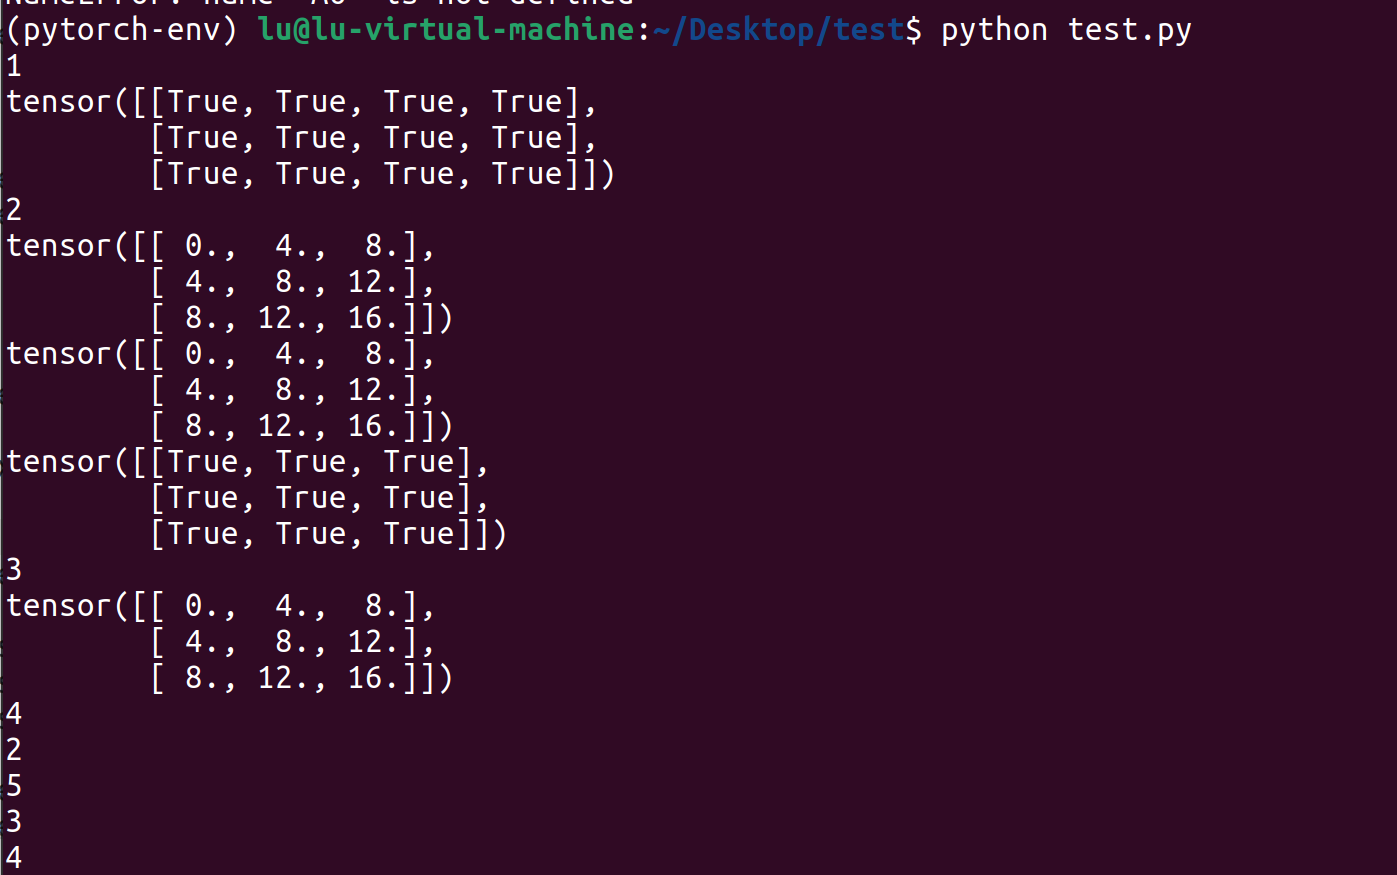
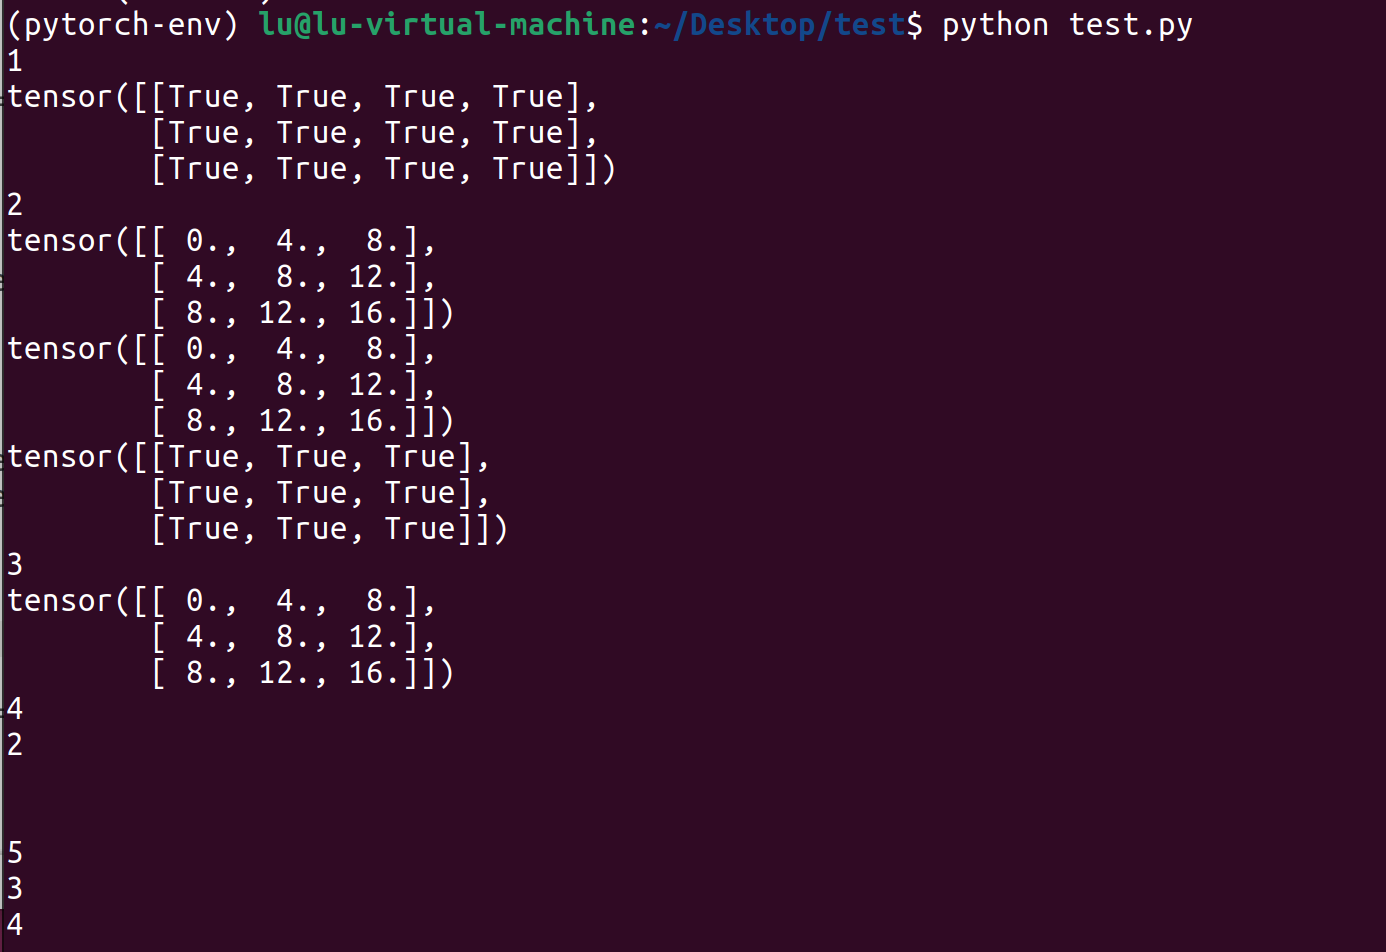
今日pytorch学习日志提交

Changed region(s): [[0.0, 0.0, 0.8687, 1.0]]

diff --git a/week1/code/test4.py b/week1/code/test4.py
@@ -1,0 +1,171 @@
+import numpy as np
+import matplotlib.pyplot as plt
+from d2l import torch as d2l
+
+def f(x):
+    """
+    定义二次函数 f(x) = 3x² - 4x
+    这是一个凸函数，用于演示导数和切线的概念
+    """
+    return 3 * x ** 2 - 4 * x
+
+def numerical_lim(f, x, h):
+    """
+    使用数值方法计算函数在给定点的导数
+    采用前向差分公式：f'(x) ≈ [f(x+h) - f(x)] / h
+    参数:
+        f: 目标函数
+        x: 计算导数的点
+        h: 步长（越小越精确，但数值误差可能增大）
+    返回:
+        数值近似的导数值
+    """
+    return (f(x + h) - f(x)) / h
+
+# 数值导数计算演示
+# 通过不同步长展示数值导数的收敛性
+h = 0.1  # 初始步长
+print("数值导数计算 (在 x=1 处):")
+print("步长越小，数值导数越接近理论值 2")
+for i in range(5):
+    # 计算在x=1处的数值导数
+    derivative = numerical_lim(f, 1, h)
+    print(f'h={h:.5f}, numerical limit={derivative:.5f}')
+    h *= 0.1  # 每次迭代将步长缩小10倍
+
+# 理论验证：
+# f(x) = 3x² - 4x
+# f'(x) = 6x - 4
+# 在x=1处：f'(1) = 6*1 - 4 = 2
+print(f"理论导数在 x=1 处: 2.00000")
+
+def use_svg_display():  #@save
+    """
+    使用SVG格式显示绘图（在Jupyter Notebook中）
+    SVG格式提供矢量图形，缩放不失真
+    在普通Python脚本中此函数为空实现
+    """
+    pass
+
+def set_figsize(figsize=(3.5, 2.5)):  #@save
+    """
+    设置matplotlib图表的大小
+    参数:
+        figsize: 元组 (宽度, 高度)，单位为英寸
+    """
+    plt.rcParams['figure.figsize'] = figsize
+
+def set_axes(axes, xlabel, ylabel, xlim, ylim, xscale, yscale, legend):
+    """
+    配置matplotlib坐标轴的各项属性
+    参数:
+        axes: matplotlib坐标轴对象
+        xlabel, ylabel: x轴和y轴的标签文本
+        xlim, ylim: x轴和y轴的显示范围 (min, max)
+        xscale, yscale: 坐标轴尺度 ('linear'线性, 'log'对数)
+        legend: 图例文本列表
+    """
+    # 设置坐标轴标签
+    axes.set_xlabel(xlabel)
+    axes.set_ylabel(ylabel)
+    
+    # 设置坐标轴尺度
+    axes.set_xscale(xscale)
+    axes.set_yscale(yscale)
+    
+    # 设置坐标轴范围
+    axes.set_xlim(xlim)
+    axes.set_ylim(ylim)
+    
+    # 添加图例（如果提供）
+    if legend:
+        axes.legend(legend)
+    
+    # 添加网格线，提高可读性
+    axes.grid()
+
+def plot(X, Y=None, xlabel=None, ylabel=None, legend=None, xlim=None,
+         ylim=None, xscale='linear', yscale='linear',
+         fmts=('-', 'm--', 'g-.', 'r:'), figsize=(3.5, 2.5), axes=None):
+    """
+    通用绘图函数，用于绘制单条或多条数据曲线
+    参数:
+        X: x轴数据，可以是数值数组或列表
+        Y: y轴数据，如果为None则绘制X自身
+        xlabel, ylabel: 坐标轴标签
+        legend: 图例说明列表
+        xlim, ylim: 坐标轴范围限制
+        xscale, yscale: 坐标轴尺度类型
+        fmts: 线条格式列表，控制线条样式和颜色
+        figsize: 图形尺寸
+        axes: 可选的坐标轴对象
+    """
+    # 初始化图例列表
+    if legend is None:
+        legend = []
+
+    # 设置图形尺寸
+    set_figsize(figsize)
+    
+    # 获取或创建坐标轴对象
+    axes = axes if axes else plt.gca()
+
+    def has_one_axis(X):
+        """
+        判断输入数据是否是单维数据
+        返回True如果:
+          - X是1维numpy数组
+          - X是标量列表（非嵌套列表）
+        """
+        return (hasattr(X, "ndim") and X.ndim == 1 or 
+                isinstance(X, list) and not hasattr(X[0], "__len__"))
+
+    # 数据预处理：统一数据格式
+    # 确保X是列表形式，每个元素代表一条曲线的x数据
+    if has_one_axis(X):
+        X = [X]
+    
+    # 处理Y为None的情况（绘制X自身）
+    if Y is None:
+        X, Y = [[]] * len(X), X
+    # 确保Y是列表形式
+    elif has_one_axis(Y):
+        Y = [Y]
+    
+    # 确保X和Y列表长度匹配
+    if len(X) != len(Y):
+        X = X * len(Y)
+    
+    # 清空当前坐标轴，准备绘制新图形
+    axes.cla()
+    
+    # 遍历所有数据对，绘制每条曲线
+    for x, y, fmt in zip(X, Y, fmts):
+        if len(x):
+            # 绘制x-y数据对
+            axes.plot(x, y, fmt)
+        else:
+            # 仅绘制y数据（x为索引）
+            axes.plot(y, fmt)
+    
+    # 配置坐标轴属性
+    set_axes(axes, xlabel, ylabel, xlim, ylim, xscale, yscale, legend)
+
+# 主程序：绘制函数和切线
+# 生成x轴数据点，从0到3，步长0.1
+x = np.arange(0, 3, 0.1)
+
+# 绘制函数曲线和在x=1处的切线
+# 函数：f(x) = 3x² - 4x
+# 在x=1处的切线：y = f'(1)(x-1) + f(1) = 2(x-1) + (-1) = 2x - 3
+plot(x, 
+     [f(x), 2 * x - 3],  # 绘制函数曲线和切线
+     'x',                 # x轴标签
+     'f(x)',              # y轴标签
+     legend=['f(x)', 'Tangent line (x=1)'],  # 图例说明
+     xlim=[0, 3],         # x轴显示范围
+     ylim=[-2, 10]        # y轴显示范围
+)
+
+# 显示图形（在Python脚本中必需）
+plt.show()

diff --git a/week1/code/practice4.py b/week1/code/practice4.py
@@ -1,0 +1,67 @@
+import numpy as np
+import matplotlib.pyplot as plt
+from d2l import torch as d2l
+
+def f(x):
+    return x * x * x - 1 / x
+
+def numerical_lim(f, x, h):
+    return (f(x + h) - f(x)) / h
+
+h = 0.1
+for i in range(5):
+    print(f'h={h:.5f}, numerical limit={numerical_lim(f, 1, h):.5f}')
+    h *= 0.1
+
+def use_svg_display():
+    pass
+
+def set_figsize(figsize=(3.5, 2.5)):
+    plt.rcParams['figure.figsize'] = figsize
+
+def set_axes(axes, xlabel, ylabel, xlim, ylim, xscale, yscale, legend):
+    axes.set_xlabel(xlabel)
+    axes.set_ylabel(ylabel)
+    axes.set_xscale(xscale)
+    axes.set_yscale(yscale)
+    axes.set_xlim(xlim)
+    axes.set_ylim(ylim)
+    if legend:
+        axes.legend(legend)
+    axes.grid()
+
+def plot(X, Y=None, xlabel=None, ylabel=None, legend=None, xlim=None,
+         ylim=None, xscale='linear', yscale='linear',
+         fmts=('-', 'm--', 'g-.', 'r:'), figsize=(3.5, 2.5), axes=None):
+    if legend is None:
+        legend = []
+
+    set_figsize(figsize)
+    axes = axes if axes else plt.gca()
+
+    def has_one_axis(X):
+        return (hasattr(X, "ndim") and X.ndim == 1 or isinstance(X, list)
+                and not hasattr(X[0], "__len__"))
+
+    if has_one_axis(X):
+        X = [X]
+    if Y is None:
+        X, Y = [[]] * len(X), X
+    elif has_one_axis(Y):
+        Y = [Y]
+    if len(X) != len(Y):
+        X = X * len(Y)
+    axes.cla()
+    for x, y, fmt in zip(X, Y, fmts):
+        if len(x):
+            axes.plot(x, y, fmt)
+        else:
+            axes.plot(y, fmt)
+    set_axes(axes, xlabel, ylabel, xlim, ylim, xscale, yscale, legend)
+
+x = np.arange(0.1, 3, 0.1)
+tangent_line = 4 * x - 4
+
+plot(x, [f(x), tangent_line], 'x', 'f(x)', 
+     legend=['f(x)', 'Tangent line (x=1)'])
+plt.show()

diff --git a/week1/code/practice3.py b/week1/code/practice3.py
@@ -24,15 +24,18 @@ print(B3)
 A4 = torch.arange(24, dtype=torch.float32).reshape(2, 3, 4)
 print("4")
 print(len(A4))
+print("\n")
 
 A5 = torch.arange(12, dtype=torch.float32).reshape(3, 4)
 B5 = torch.arange(12, dtype=torch.float32).reshape(4, 3)
 print("5")
 print(len(A5))
 print(len(B5))
+print("\n")
 
 A6 = torch.arange(9, dtype=torch.float32).reshape(3, 3)
 print("6")
+print(A6.sum(axis=1))
 B6 = A6/A6.sum(axis=1)
 print(B6)
 
@@ -46,6 +49,6 @@ A8 = torch.arange(12, dtype=torch.float32).reshape(3, 4)
 B8 = torch.arange(12, dtype=torch.float32).reshape(4, 3)
 C8 = torch.arange(24, dtype=torch.float32).reshape(2, 3, 4)
 print("8")
-print(A8)
-print(B8)
-print(C8)
+print(torch.norm(A8))
+print(torch.norm(B8))
+print(torch.norm(C8))

diff --git a/week1/code/test5-1.py b/week1/code/test5-1.py
@@ -1,0 +1,14 @@
+import torch
+# y=2 * x^T * x
+x = torch.arange(4.0)
+print(x)
+# 为张量开启自动求导功能，并提示此时梯度尚未计算（为 None）
+x.requires_grad_(True)  # 等价于x=torch.arange(4.0,requires_grad=True),requires_grad=True用于开启自动求导追踪
+print(x.grad)  # 用于访问张量 x 的梯度值,默认值是None
+print(x)
+
+y = 2 * torch.dot(x, x)
+print(y)
+
+y.backward()		# 调用反向传播函数来自动计算y关于x每个分量的梯度
+print(x.grad)			# 打印这些梯度

diff --git a/week1/learning_log/Pytorch_learning1.md b/week1/learning_log/Pytorch_learning1.md
@@ -251,3 +251,38 @@ https://github.com/d2l-ai
         结果：
         |![pytorch_learning](./pictures/10.png)|![pytorch_learning](./pictures/11.png)|
         |--|--|
+1. 微积分
+   基础的求导微分知识已学过
+   1. 导数、积分和偏导数
+   代码见test4.py , 因为直接看没看懂，所以让AI给加了点注释
+   1. 梯度
+    ![pytorch_learning](./pictures/13.png)
+    1. 链式法则
+    ![pytorch_learning](./pictures/14.png)
+    1. 练习
+     ![pytorch_learning](./pictures/15.png)
+     答案：
+
+        |![pytorch_learning](./pictures/16.png)|![pytorch_learning](./pictures/1.jpg)|
+        |--|--|
+1. 自动微分
+   > 好像是计划中下周的内容？？哈哈，进度比自己想的快
+
+   目标：在复杂的模型，手工进行更新痛苦且经常容易出错的问题。
+   机制：深度学习框架通过自动计算导数，即自动微分（automatic        differentiation）来加快求导。 实际中，根据设计好的模型，系统会构建一个计算图（computational graph）， 来跟踪计算是哪些数据通过哪些操作组合起来产生输出。 自动微分使系统能够随后反向传播梯度。 这里，反向传播（backpropagate）意味着跟踪整个计算图，填充关于每个参数的偏导数。
+   **一个小例子：**
+    ```
+    x = torch.arange(4.0)
+    # 为张量开启自动求导功能，并提示此时梯度尚未计算（为 None）
+    x.requires_grad_(True)  # 等价于x=torch.arange(4.0,requires_grad=True),requires_grad=True用于开启自动求导追踪
+    print(x.grad)           # 用于访问张量 x 的梯度值,默认值是None
+    y = 2 * torch.dot(x, x) # y=2 * x^T * x
+    print(y)
+    y.backward()            # 调用反向传播函数来自动计算y关于x每个分量的梯度
+
+    # 在默认情况下，PyTorch会累积梯度，故计算x的另一个函数前我们需要清除之前的值
+    x.grad.zero_()
+    ```
+
+
+

diff --git a/week1/learning_log/2025_11_04.md b/week1/learning_log/2025_11_04.md
@@ -1,6 +1,10 @@
 # DAY 4
+教程:
+https://zh-v2.d2l.ai/ 
+https://www.runoob.com/python/python-tutorial.html
 ### 完成任务
-
+1. 预备知识中的数据预处理、线性代数和微积分部分，自动微分部分学了个开头
+2. python
 ### 遇到的问题
 1.  pandas 和 NumPy 版本不匹配
    ![problem](./pictures/problem2.png)
@@ -9,3 +13,5 @@
     conda uninstall numpy pandas -y
     conda install numpy pandas -c conda-forge
     ```
+2. 因为教程是用 Jupyter Notebook  运行代码，而我用的是python直接运行文件，所以教程中的代码有的要修改后才能用。比如微积分部分的代码%matplotlib inline 是 Jupyter Notebook 的魔术命令，不能在普通的 Python 脚本中直接使用，且最后要调用`d2l.plt.show()`来显示图表。
+不用Jupyter Notebook是因为rise插件一直装不上，最后改用pyhton了。

diff --git a/week1/learning_log/2025_11_03.md b/week1/learning_log/2025_11_03.md
@@ -1,4 +1,6 @@
 # Day 3
+教程:
+https://zh-v2.d2l.ai/ 
 ## 完成任务
 1. pytorch相关的环境配置（见day2学习日志）
 2. 预备知识-数据操作的学习（学习日志见Pytorch_learning.py）
